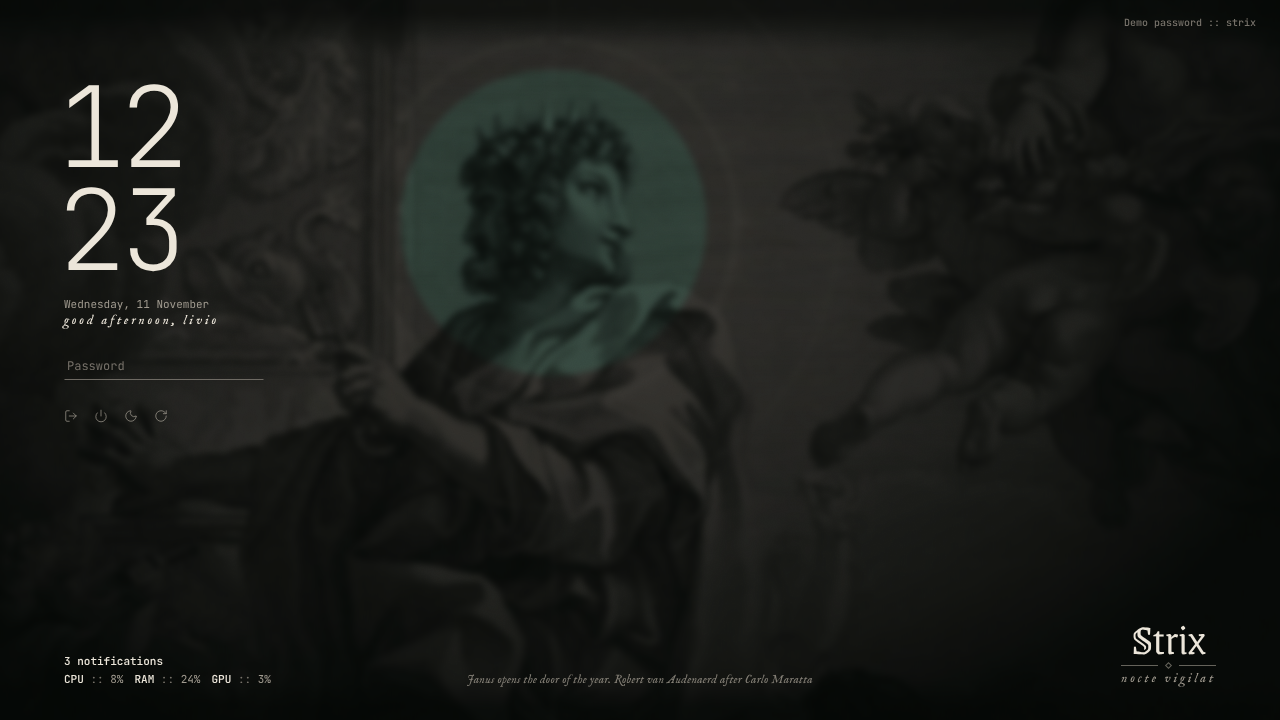
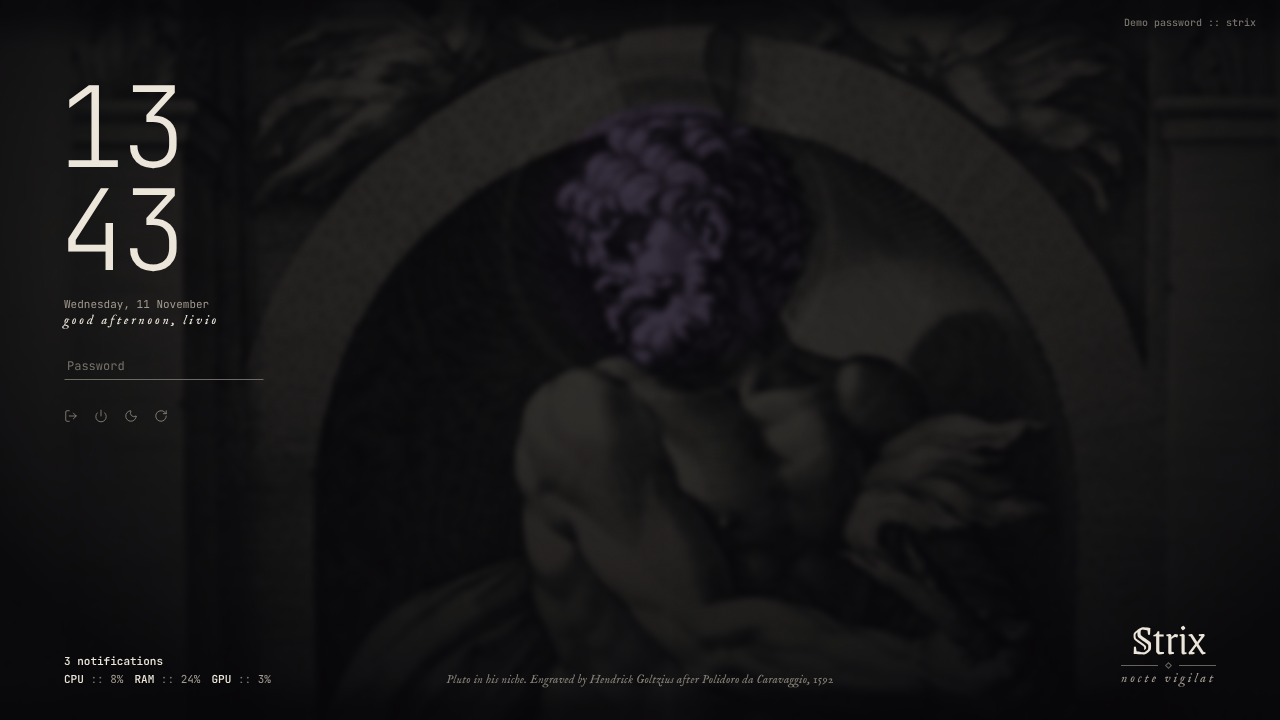
feat(lock): show another god at every lock
The lock screen picks one of the eight gods at random each time it locks, never the same twice in a row, and switches plate, caption and aspect together. The desktop keeps the god chosen in the pantheon. A setting under Settings › Lock screen turns the change off.

diff --git a/design-system/components/LockScreen/preview.html b/design-system/components/LockScreen/preview.html
@@ -33,7 +33,7 @@
     </div>
     <div class="foot caption k-muted"><b>3 notifications</b><br><b>CPU</b> <i>::</i> 8%&emsp;<b>RAM</b> <i>::</i> 24%&emsp;<b>GPU</b> <i>::</i> 3%</div>
     <div class="mark"><div class="k-wordmark">Strix</div><div class="k-rule" style="margin:4px 0 2px"><i></i></div><div class="k-motto">nocte vigilat</div></div>
-    <div class="plate k-plate">Janus opens the door of the year. Robert van Audenaerd after Carlo Maratta</div>
+    <div class="plate k-plate" id="lplate">Janus opens the door of the year. Robert van Audenaerd after Carlo Maratta</div>
     <div class="hint micro">Demo password :: strix</div>
   </div>
   <button class="k-btn" id="relock" style="position:absolute;left:50%;bottom:40px;transform:translateX(-50%);display:none"><span>Lock again</span></button>
@@ -66,7 +66,15 @@ Kit.hydrate(document);
       } else err('Wrong password');
     }
   });
-  document.getElementById('relock').addEventListener('click', function () { this.style.display = 'none'; lock.removeAttribute('data-out'); wall.removeAttribute('data-clear'); pw.value = ''; });
+  // a different god at every lock, never the same twice in a row
+  var GODS = [["saturnus", "../../assets/Wallpapers/saturnus.jpg", "Saturnus with his sickle, lord of time, in his niche. Engraved by Hendrick Goltzius after Polidoro da Caravaggio, 1592"], ["janus", "../../assets/Wallpapers/janus.jpg", "Janus with both faces opens the door of the year. Engraved by Robert van Audenaerd after Carlo Maratta"], ["apollo", "../../assets/Wallpapers/apollo.jpg", "Apollo as Sol, the sun, with lyre and quiver in his niche. Engraved by Hendrick Goltzius after Polidoro da Caravaggio, 1592"], ["mars", "../../assets/Wallpapers/mars.jpg", "Mars in armour, a dragon on his helmet. Hubert Quellinus after the statue by Artus Quellinus, Amsterdam, 1655"], ["vulcanus", "../../assets/Wallpapers/vulcanus.jpg", "Vulcanus, the smith of the gods, in his niche. Engraved by Hendrick Goltzius after Polidoro da Caravaggio, 1592"], ["neptunus", "../../assets/Wallpapers/neptunus.jpg", "Neptunus with his crown and trident, in his niche. Engraved by Hendrick Goltzius after Polidoro da Caravaggio, 1592"], ["pluto", "../../assets/Wallpapers/pluto.jpg", "Pluto in his niche. Engraved by Hendrick Goltzius after Polidoro da Caravaggio, 1592"], ["bacchus", "../../assets/Wallpapers/bacchus.jpg", "Bacchus in his niche. Engraved by Hendrick Goltzius after Polidoro da Caravaggio, 1592"]], scr = document.getElementById('scr'), plate = document.getElementById('lplate'), last = -1;
+  function pick() {
+    var i; do { i = Math.floor(Math.random() * GODS.length); } while (i === last && GODS.length > 1);
+    last = i; var g = GODS[i];
+    scr.setAttribute('data-theme', g[0]); wall.style.backgroundImage = 'url(' + g[1] + ')'; plate.textContent = g[2];
+  }
+  pick();
+  document.getElementById('relock').addEventListener('click', function () { this.style.display = 'none'; pick(); lock.removeAttribute('data-out'); wall.removeAttribute('data-clear'); pw.value = ''; });
 })();
 </script>
 </body>

diff --git a/design-system/components/Search/preview.html b/design-system/components/Search/preview.html
@@ -86,6 +86,7 @@ Kit.hydrate(document);
     {k: 'setting', t: '24-hour clock', p: ['Settings', 'Lock screen'], i: 'clock', v: 'On', w: 'time format'},
     {k: 'setting', t: 'Password field', p: ['Settings', 'Lock screen'], i: 'lock', v: 'Line', w: 'input shape'},
     {k: 'setting', t: 'Background blur', p: ['Settings', 'Lock screen'], i: 'image', v: '6', w: 'wallpaper soft'},
+    {k: 'setting', t: 'Wallpaper', p: ['Settings', 'Lock screen'], i: 'images', v: 'Another god at each lock', w: 'god pantheon change rotate random'},
     {k: 'setting', t: 'Scale', p: ['Settings', 'Display'], i: 'monitor', v: '100%', w: 'resolution hidpi zoom'},
     {k: 'setting', t: 'Night light', p: ['Settings', 'Display'], i: 'moon', v: 'Off', w: 'warm blue light colour temperature'},
     {k: 'setting', t: 'Output device', p: ['Settings', 'Sound'], i: 'volume-2', v: 'Headphones', w: 'speaker audio'},

diff --git a/tools/components.py b/tools/components.py
@@ -456,6 +456,7 @@ SEARCH_JS = r'''
     {k: 'setting', t: '24-hour clock', p: ['Settings', 'Lock screen'], i: 'clock', v: 'On', w: 'time format'},
     {k: 'setting', t: 'Password field', p: ['Settings', 'Lock screen'], i: 'lock', v: 'Line', w: 'input shape'},
     {k: 'setting', t: 'Background blur', p: ['Settings', 'Lock screen'], i: 'image', v: '6', w: 'wallpaper soft'},
+    {k: 'setting', t: 'Wallpaper', p: ['Settings', 'Lock screen'], i: 'images', v: 'Another god at each lock', w: 'god pantheon change rotate random'},
     {k: 'setting', t: 'Scale', p: ['Settings', 'Display'], i: 'monitor', v: '100%', w: 'resolution hidpi zoom'},
     {k: 'setting', t: 'Night light', p: ['Settings', 'Display'], i: 'moon', v: 'Off', w: 'warm blue light colour temperature'},
     {k: 'setting', t: 'Output device', p: ['Settings', 'Sound'], i: 'volume-2', v: 'Headphones', w: 'speaker audio'},
@@ -810,16 +811,17 @@ screen('LockScreen', 720, r'''
     </div>
     <div class="foot caption k-muted"><b>3 notifications</b><br><b>CPU</b> <i>::</i> 8%&emsp;<b>RAM</b> <i>::</i> 24%&emsp;<b>GPU</b> <i>::</i> 3%</div>
     <div class="mark"><div class="k-wordmark">Strix</div><div class="k-rule" style="margin:4px 0 2px"><i></i></div><div class="k-motto">nocte vigilat</div></div>
-    <div class="plate k-plate">Janus opens the door of the year. Robert van Audenaerd after Carlo Maratta</div>
+    <div class="plate k-plate" id="lplate">Janus opens the door of the year. Robert van Audenaerd after Carlo Maratta</div>
     <div class="hint micro">Demo password :: strix</div>
   </div>
   <button class="k-btn" id="relock" style="position:absolute;left:50%;bottom:40px;transform:translateX(-50%);display:none"><span>Lock again</span></button>
 </div>''', r'''
-The lock screen, left layout. A narrow column on the left over the dimmed engraving: a very light clock with hours stacked over minutes, the date, a greeting in spaced italic, the password as a single hair line, and four session buttons. Bottom left: notifications and load. Bottom right: the blackletter wordmark, a lozenge rule and the motto. Bottom centre: the plate caption of the engraving.
+The lock screen, left layout. Every time the screen locks, it shows another god of the pantheon in that god's aspect: the plate, the accent and the tinted grounds change together, and the same god never comes twice in a row. The desktop keeps the god chosen in the pantheon; after unlocking, its aspect comes back. A narrow column on the left over the dimmed engraving: a very light clock with hours stacked over minutes, the date, a greeting in spaced italic, the password as a single hair line, and four session buttons. Bottom left: notifications and load. Bottom right: the blackletter wordmark, a lozenge rule and the motto. Bottom centre: the plate caption of the engraving.
 
 - States, all in this preview: empty, typing (dots), wrong password (the line turns to `error`, shakes once, and says "Wrong password"), Caps Lock ("Caps Lock is on"), locked out after three tries with a countdown, unlocking.
 - Unlock: the column fades and slides left while the engraving sharpens and brightens over `dur-reveal`.
-- The demo password is `strix`. Type anything else to see the error.
+- The demo password is `strix`. Type anything else to see the error. "Lock again" locks with the next god.
+- Settings › Lock screen › Wallpaper turns the change off and keeps one god instead.
 - Text: date as "Tuesday, 10 November"; greeting lowercase by time of day with the user name.
 - The centred layout and the greeter use the same parts, centred, with the wordmark above the field.
 ''', css=r'''
@@ -861,7 +863,15 @@ The lock screen, left layout. A narrow column on the left over the dimmed engrav
       } else err('Wrong password');
     }
   });
-  document.getElementById('relock').addEventListener('click', function () { this.style.display = 'none'; lock.removeAttribute('data-out'); wall.removeAttribute('data-clear'); pw.value = ''; });
+  // a different god at every lock, never the same twice in a row
+  var GODS = __LOCK_GODS__, scr = document.getElementById('scr'), plate = document.getElementById('lplate'), last = -1;
+  function pick() {
+    var i; do { i = Math.floor(Math.random() * GODS.length); } while (i === last && GODS.length > 1);
+    last = i; var g = GODS[i];
+    scr.setAttribute('data-theme', g[0]); wall.style.backgroundImage = 'url(' + g[1] + ')'; plate.textContent = g[2];
+  }
+  pick();
+  document.getElementById('relock').addEventListener('click', function () { this.style.display = 'none'; pick(); lock.removeAttribute('data-out'); wall.removeAttribute('data-clear'); pw.value = ''; });
 })();
 ''')
 
@@ -1002,6 +1012,9 @@ _CAP = {
 }
 _URL = dict(zip([g[0] for g in _pan.GODS], [SATURNUS, JANUS, APOLLO, MARS, VULCANUS, NEPTUNUS, PLUTO, BACCHUS]))
 PLATES = [(g[0], _URL[g[0]], g[1], _CAP[g[0]][0], _CAP[g[0]][1], _pan.aspect(g[0])['accent']) for g in _pan.GODS]
+for _s in SCREENS:
+    if _s['name'] == 'LockScreen':
+        _s['js'] = _s['js'].replace('__LOCK_GODS__', json.dumps([[p[0], p[1], p[4]] for p in PLATES]))
 WP_JS = 'var P = ' + json.dumps(PLATES) + ';\n' + r"""
 (function () {
   var scr = document.getElementById('scr'), track = document.getElementById('track'), car = document.getElementById('car'), rev = document.getElementById('rev'), base = document.getElementById('base');
@@ -1045,7 +1058,7 @@ screen('Pantheon', 720, r'''
 </div>''', r'''
 The pantheon (Style › Wallpaper, Super Ctrl Space). The default theme has no single wallpaper but eight Roman gods. Each god is a plate and an aspect: the plate is the wallpaper, the aspect recolours the system to match it. Calling a god sets both at once.
 
-- The gods, in order: Saturnus (Strix red, the default), Janus (patina), Apollo (antique gold), Mars (rust), Vulcanus (olive), Neptunus (slate blue), Pluto (heather), Bacchus (claret). All but Saturnus are muted, as in dark academia: deep, warm, never bright. Janus keeps the doors and so the lock screen; in Ovid it is his gift that keeps the striges out of the house.
+- The gods, in order: Saturnus (Strix red, the default), Janus (patina), Apollo (antique gold), Mars (rust), Vulcanus (olive), Neptunus (slate blue), Pluto (heather), Bacchus (claret). All but Saturnus are muted, as in dark academia: deep, warm, never bright. Janus keeps the doors; in Ovid it is his gift that keeps the striges out of the house. The lock screen shows another god at every lock.
 - An aspect changes only the accent and its family (`accent`, `accent-hover`, `accent-pressed`, `accent-soft`, `accent-text`, `on-accent`, `focus`, terminal cursor and selection) and tints the grounds (`background`, the surfaces, `border`) a little toward the god's hue. Text, `line`, the status colours and syntax stay the same in every aspect, so readability never depends on the god.
 - In code the aspect is a theme: `data-theme="mars"` on the root, or on any element to scope it. Light accents (Janus, Apollo and Vulcanus) put dark text on their fills, the others white; `on-accent` says which.
 - Every plate is an engraving printed in two inks of its aspect: dark ink on dim cream, and inside the disc the paper takes the god's colour.

diff --git a/tools/docs.py b/tools/docs.py
@@ -85,7 +85,7 @@ __GODS_TABLE__
 ## Wallpaper and imagery
 
 - Wallpapers are engravings of Roman gods, printed in two inks of the god's aspect: dim cream for the paper and the aspect's `background` for the ink. Inside one flat disc behind the head the paper takes the god's `accent`, dulled a little as ink on old paper, so the head is drawn in dark lines on the colour. Around the disc sit a few hair lines: two circles, a graduated ring and a meridian. The picture is darkened hard toward the edges so it reads as texture, not as a poster.
-- Eight plates are in the Wallpapers asset group, one per god: Saturnus (the default desktop), Janus (the lock screen: he keeps the doors), Apollo, Mars, Vulcanus, Neptunus, Pluto and Bacchus. They come from the open-access collections of the Art Institute of Chicago (CC0) and the Rijksmuseum (public domain). The group's README gives title, engraver, date, source and licence for each.
+- Eight plates are in the Wallpapers asset group, one per god: Saturnus (the default desktop), Janus, Apollo, Mars, Vulcanus, Neptunus, Pluto and Bacchus. The desktop shows the god chosen in the pantheon; the lock screen shows another god at every lock, in that god's aspect, never the same twice in a row. They come from the open-access collections of the Art Institute of Chicago (CC0) and the Rijksmuseum (public domain). The group's README gives title, engraver, date, source and licence for each.
 - Crop to the upper body: head, shoulders, arms. Keep the top 110px and the bottom 90px of a wallpaper dark so the bar and the dock stay readable.
 - Under the lock screen, the theme picker and the pantheon the wallpaper is dimmed to `dim-wallpaper` and softened slightly.
 - Add further gods only as engravings or etchings in the public domain from a collection that says so, with an aspect of their own whose accent is far enough in hue from the others, treated the same way, with source and licence written into the README. No photographs, no paintings in colour, no characters, no artwork of other projects.
@@ -194,7 +194,7 @@ Everything that can move, moves. Nothing invents its own timing: every transitio
 | Carousel | browse | row slides; old middle narrows, new one widens; name rises in | `dur-slow` | `ease-in-out` | retargets |
 | Theme card | hover | brightness | `dur-fast` | `ease-out` | reverses |
 | Theme | apply | new wallpaper grows as a circle from the click point; then the picker fades | `dur-reveal`, then `dur-base` | `ease-in-out`, `ease-in` | finishes |
-| Lock screen | lock | wallpaper dims and softens; column slides in from the left | `dur-reveal`, `dur-slow` | `ease-out` | finishes |
+| Lock screen | lock | another god's plate and aspect; wallpaper dims and softens; column slides in from the left | `dur-reveal`, `dur-slow` | `ease-out` | finishes |
 | Lock screen | unlock | column fades and moves 24px left; wallpaper sharpens | `dur-slow`, `dur-reveal` | `ease-in`, `ease-out` | finishes |
 | Lock screen | wrong password | field shakes; message appears | `dur-slow` | `ease-out` | restarts |
 | Visualizer | sound | bar heights | `dur-fast` | linear | follows |
@@ -274,7 +274,7 @@ The pantheon of the default theme: eight Roman gods, each an engraving printed i
 
 def _plates():
     import pantheon, wallpapers
-    role = {'saturnus': ' The default desktop.', 'janus': ' The lock screen.'}
+    role = {'saturnus': ' The default desktop.'}
     rows = []
     for g in pantheon.GODS:
         credit = wallpapers.PLATES[g[0]][3]

diff --git a/design-system/README.md b/design-system/README.md
@@ -94,7 +94,7 @@ The default theme has eight aspects, one for each god of its wallpapers. Choosin
 ## Wallpaper and imagery
 
 - Wallpapers are engravings of Roman gods, printed in two inks of the god's aspect: dim cream for the paper and the aspect's `background` for the ink. Inside one flat disc behind the head the paper takes the god's `accent`, dulled a little as ink on old paper, so the head is drawn in dark lines on the colour. Around the disc sit a few hair lines: two circles, a graduated ring and a meridian. The picture is darkened hard toward the edges so it reads as texture, not as a poster.
-- Eight plates are in the Wallpapers asset group, one per god: Saturnus (the default desktop), Janus (the lock screen: he keeps the doors), Apollo, Mars, Vulcanus, Neptunus, Pluto and Bacchus. They come from the open-access collections of the Art Institute of Chicago (CC0) and the Rijksmuseum (public domain). The group's README gives title, engraver, date, source and licence for each.
+- Eight plates are in the Wallpapers asset group, one per god: Saturnus (the default desktop), Janus, Apollo, Mars, Vulcanus, Neptunus, Pluto and Bacchus. The desktop shows the god chosen in the pantheon; the lock screen shows another god at every lock, in that god's aspect, never the same twice in a row. They come from the open-access collections of the Art Institute of Chicago (CC0) and the Rijksmuseum (public domain). The group's README gives title, engraver, date, source and licence for each.
 - Crop to the upper body: head, shoulders, arms. Keep the top 110px and the bottom 90px of a wallpaper dark so the bar and the dock stay readable.
 - Under the lock screen, the theme picker and the pantheon the wallpaper is dimmed to `dim-wallpaper` and softened slightly.
 - Add further gods only as engravings or etchings in the public domain from a collection that says so, with an aspect of their own whose accent is far enough in hue from the others, treated the same way, with source and licence written into the README. No photographs, no paintings in colour, no characters, no artwork of other projects.

diff --git a/design-system/components/LockScreen/README.md b/design-system/components/LockScreen/README.md
@@ -1,9 +1,10 @@
 # LockScreen
 
-The lock screen, left layout. A narrow column on the left over the dimmed engraving: a very light clock with hours stacked over minutes, the date, a greeting in spaced italic, the password as a single hair line, and four session buttons. Bottom left: notifications and load. Bottom right: the blackletter wordmark, a lozenge rule and the motto. Bottom centre: the plate caption of the engraving.
+The lock screen, left layout. Every time the screen locks, it shows another god of the pantheon in that god's aspect: the plate, the accent and the tinted grounds change together, and the same god never comes twice in a row. The desktop keeps the god chosen in the pantheon; after unlocking, its aspect comes back. A narrow column on the left over the dimmed engraving: a very light clock with hours stacked over minutes, the date, a greeting in spaced italic, the password as a single hair line, and four session buttons. Bottom left: notifications and load. Bottom right: the blackletter wordmark, a lozenge rule and the motto. Bottom centre: the plate caption of the engraving.
 
 - States, all in this preview: empty, typing (dots), wrong password (the line turns to `error`, shakes once, and says "Wrong password"), Caps Lock ("Caps Lock is on"), locked out after three tries with a countdown, unlocking.
 - Unlock: the column fades and slides left while the engraving sharpens and brightens over `dur-reveal`.
-- The demo password is `strix`. Type anything else to see the error.
+- The demo password is `strix`. Type anything else to see the error. "Lock again" locks with the next god.
+- Settings › Lock screen › Wallpaper turns the change off and keeps one god instead.
 - Text: date as "Tuesday, 10 November"; greeting lowercase by time of day with the user name.
 - The centred layout and the greeter use the same parts, centred, with the wordmark above the field.

diff --git a/design-system/components/Pantheon/README.md b/design-system/components/Pantheon/README.md
@@ -2,7 +2,7 @@
 
 The pantheon (Style › Wallpaper, Super Ctrl Space). The default theme has no single wallpaper but eight Roman gods. Each god is a plate and an aspect: the plate is the wallpaper, the aspect recolours the system to match it. Calling a god sets both at once.
 
-- The gods, in order: Saturnus (Strix red, the default), Janus (patina), Apollo (antique gold), Mars (rust), Vulcanus (olive), Neptunus (slate blue), Pluto (heather), Bacchus (claret). All but Saturnus are muted, as in dark academia: deep, warm, never bright. Janus keeps the doors and so the lock screen; in Ovid it is his gift that keeps the striges out of the house.
+- The gods, in order: Saturnus (Strix red, the default), Janus (patina), Apollo (antique gold), Mars (rust), Vulcanus (olive), Neptunus (slate blue), Pluto (heather), Bacchus (claret). All but Saturnus are muted, as in dark academia: deep, warm, never bright. Janus keeps the doors; in Ovid it is his gift that keeps the striges out of the house. The lock screen shows another god at every lock.
 - An aspect changes only the accent and its family (`accent`, `accent-hover`, `accent-pressed`, `accent-soft`, `accent-text`, `on-accent`, `focus`, terminal cursor and selection) and tints the grounds (`background`, the surfaces, `border`) a little toward the god's hue. Text, `line`, the status colours and syntax stay the same in every aspect, so readability never depends on the god.
 - In code the aspect is a theme: `data-theme="mars"` on the root, or on any element to scope it. Light accents (Janus, Apollo and Vulcanus) put dark text on their fills, the others white; `on-accent` says which.
 - Every plate is an engraving printed in two inks of its aspect: dark ink on dim cream, and inside the disc the paper takes the god's colour.

diff --git a/design-system/assets/Wallpapers/README.md b/design-system/assets/Wallpapers/README.md
@@ -3,7 +3,7 @@
 The pantheon of the default theme: eight Roman gods, each an engraving printed in two inks of the god's aspect, with one disc in the god's colour. Sources: Art Institute of Chicago, open-access collection, released under CC0; Rijksmuseum, open data, Public Domain Mark. Each file is 2560 by 1440 and made by `tools/wallpapers.py`.
 
 - `saturnus.jpg` — Saturnus: accent `#c8102e` on `#0b0a09`. The default desktop. Hendrick Goltzius after Polidoro da Caravaggio, Saturnus, from Eight Pagan Gods, 1592. Art Institute of Chicago 2023.968, CC0.
-- `janus.jpg` — Janus: accent `#688f7f` on `#070c09`. The lock screen. Janus opens the door of the year, engraved by Robert van Audenaerd after Carlo Maratta, 1685 to 1723. Rijksmuseum RP-P-OB-67.432, public domain.
+- `janus.jpg` — Janus: accent `#688f7f` on `#070c09`. Janus opens the door of the year, engraved by Robert van Audenaerd after Carlo Maratta, 1685 to 1723. Rijksmuseum RP-P-OB-67.432, public domain.
 - `apollo.jpg` — Apollo: accent `#b5925a` on `#0d0a06`. Hendrick Goltzius after Polidoro da Caravaggio, Sol, from Eight Pagan Gods, 1592. Art Institute of Chicago 2023.972, CC0.
 - `mars.jpg` — Mars: accent `#9f5836` on `#0e0907`. Hubert Quellinus after Artus Quellinus, Mars in the west gallery of the Amsterdam town hall, 1655. Rijksmuseum RP-P-AO-22-1Q-1, public domain.
 - `vulcanus.jpg` — Vulcanus: accent `#878a5d` on `#0a0b06`. Hendrick Goltzius after Polidoro da Caravaggio, Vulcanus, from Eight Pagan Gods, 1592. Art Institute of Chicago 2023.971, CC0.

diff --git a/design-system/motion.md b/design-system/motion.md
@@ -77,7 +77,7 @@ Everything that can move, moves. Nothing invents its own timing: every transitio
 | Carousel | browse | row slides; old middle narrows, new one widens; name rises in | `dur-slow` | `ease-in-out` | retargets |
 | Theme card | hover | brightness | `dur-fast` | `ease-out` | reverses |
 | Theme | apply | new wallpaper grows as a circle from the click point; then the picker fades | `dur-reveal`, then `dur-base` | `ease-in-out`, `ease-in` | finishes |
-| Lock screen | lock | wallpaper dims and softens; column slides in from the left | `dur-reveal`, `dur-slow` | `ease-out` | finishes |
+| Lock screen | lock | another god's plate and aspect; wallpaper dims and softens; column slides in from the left | `dur-reveal`, `dur-slow` | `ease-out` | finishes |
 | Lock screen | unlock | column fades and moves 24px left; wallpaper sharpens | `dur-slow`, `dur-reveal` | `ease-in`, `ease-out` | finishes |
 | Lock screen | wrong password | field shakes; message appears | `dur-slow` | `ease-out` | restarts |
 | Visualizer | sound | bar heights | `dur-fast` | linear | follows |

diff --git a/README.md b/README.md
@@ -59,7 +59,7 @@ Then publish `build/artifact/project/` to the artifact listed in `tools/artifact
 | | |
 |---|---|
 | ![Desktop](docs/renders/Desktop.png) | ![Pantheon](docs/renders/Pantheon.png) |
-| ![Theme picker](docs/renders/ThemePicker.png) | ![Lock screen in the Janus aspect](docs/renders/LockScreen.png) |
+| ![Theme picker](docs/renders/ThemePicker.png) | ![Lock screen, another god at every lock](docs/renders/LockScreen.png) |
 | ![Dock](docs/renders/EdgeDock.png) | ![Search](docs/renders/Search.png) |
 | ![Terminal](docs/renders/Terminal.png) | ![Boot splash](docs/renders/BootSplash.png) |
 
